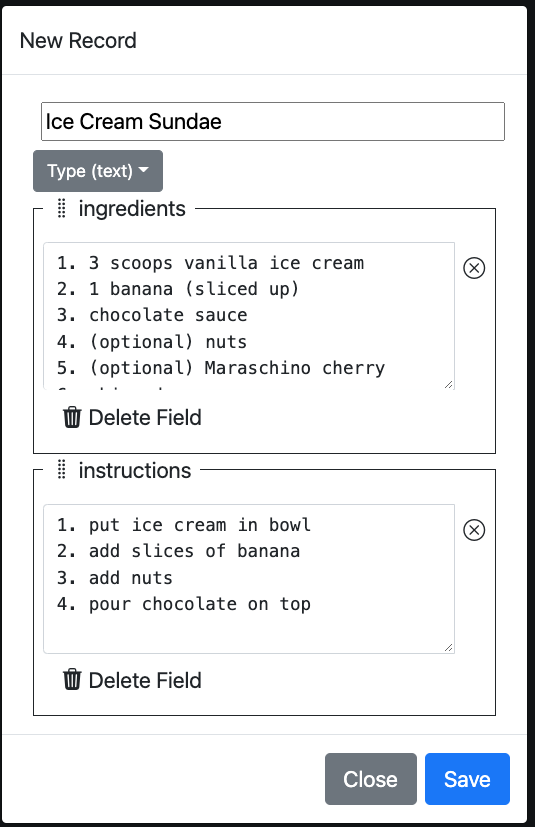
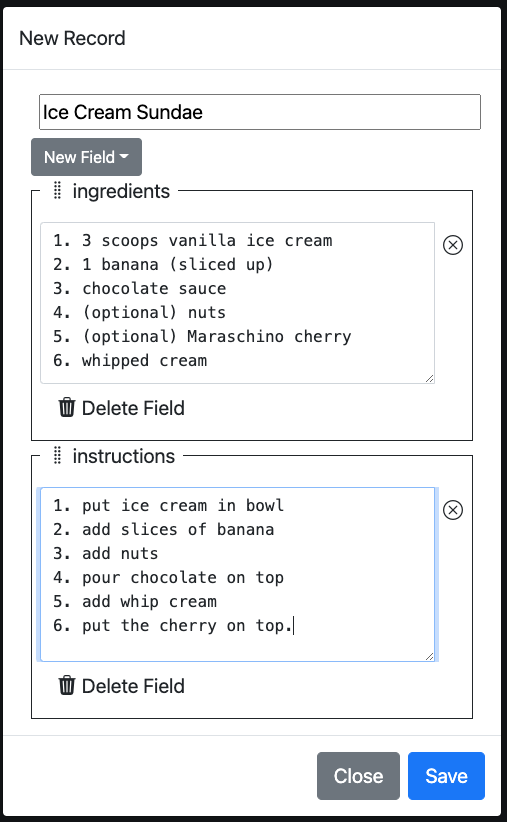
updated for v1.0.0-rc07

diff --git a/pam/www/help/index.html b/pam/www/help/index.html
@@ -134,11 +134,11 @@ the on-line help is generated.</p>
 </tr>
 <tr class="even">
 <td>Build</td>
-<td><code>2022-08-17 23:57:35 -0700</code></td>
+<td><code>2022-08-18 09:38:58 -0700</code></td>
 </tr>
 <tr class="odd">
 <td>GitCommitId</td>
-<td><code>ab9dea3</code></td>
+<td><code>333b0dc</code></td>
 </tr>
 <tr class="even">
 <td>GitBranch</td>
@@ -463,8 +463,8 @@ instructions
 <p>It would look like this when you <em>create</em> it in
 <em>PAM</em>.</p>
 <p><img src="./pam-ice-cream-sundae-new.png" width="400" alt="ice-cream-sundae-example"></p>
-<p>It would look like this when you <em>view</em> it in
-<em>PAM</em>.</p>
+<p>It would look like this when you <em>view</em> it in <em>PAM</em> in
+edit mode.</p>
 <p><img src="./pam-ice-cream-sundae-open.png" width="400" alt="ice-cream-sundae-example"></p>
 <p>As you can see, in this <em><q>recipe</q></em> record, the title is
 <code>"Ice Cream Sundae"</code> and the two fields <q>ingredients</q>
@@ -668,11 +668,8 @@ Hiding Passwords from Casual Observers</h4>
 cannot read them unless you choose to make them visible. You can read
 more about why this is beneficial in the <a
 href="#security-considerations">Security Considerations</a> section.</p>
-<p>This is the default hidden view of a password with the <a
-href="#enable-editable-field-name">Enable Editable Field Name</a>
-preference set which shows the name of the field. In this case
-<q>password</q>. You can see that the password value is all
-<em>asterisks</em>.</p>
+<p>This is the default hidden view of a password. You can see that the
+password value is all <em>asterisks</em>.</p>
 <p><img src="./pam-password-hidden.png" width="400" alt="password-hidden"></p>
 <p>This is the same view of a password when it is not hidden. You can
 now see the password value.</p>
@@ -1130,13 +1127,12 @@ the new fields.</p>
 <p><img src="./pam-new-record.png" width="400" alt="new-record"></p>
 <p>You can now type in the record title.</p>
 <p><img src="./pam-new-record-title.png" width="400" alt="new-record"></p>
-<p>From there you click or tap on the <code>"Type"</code> pulldown to
-select and create the first record field. Don’t worry if you select the
-wrong one, they are easy to delete.</p>
+<p>From there you click or tap on the <code>"New Field"</code> pulldown
+to select and create the first record field. Don’t worry if you select
+the wrong one, they are easy to delete.</p>
 <p>Here is where you select <q>ingredients</q> for the first field.</p>
 <p><img src="pam-new-record-field-1-select.png" width="400" alt="new-record-field-1-select"></p>
-<p>And then change the field name to <q>ingredients</q> and populate
-it.</p>
+<p>Populate it by typing into the <em><q>textarea</q></em> box.</p>
 <p><img src="pam-new-record-field-1.png" width="400" alt="new-record-field-1"></p>
 <p>Now do the same thing to create an <q>instructions</q> field.</p>
 <p><img src="pam-new-record-field-2.png" width="400" alt="new-record-field-2"></p>

diff --git a/pam/www/js/record.js b/pam/www/js/record.js
@@ -247,8 +247,8 @@ export function cleanRecordEditDlg(event) {
         }
     })
 
-    // reset dropdown state when creating a new record.
-    button.innerHTML = `Type (${window.prefs.predefinedRecordFieldsDefault})` // this is the default
+    // reset dropdown state when creating a new record field.
+    button.innerHTML = 'New Field'
     let container = button.xGetParentWithClass('container')
 
     // clear the title

diff --git a/pam/www/js/version.js b/pam/www/js/version.js
@@ -2,5 +2,5 @@
 // This file is automatically generated by make.
 export const VERSION = '1.0.0-rc07'
 export const BOOTSTRAP_VERSION = '5.1.3'
-export const COMMIT_ID = 'ab9dea3'
-export const COMMIT_DATE = '2022-08-17 23:57:35 -0700'
+export const COMMIT_ID = '333b0dc'
+export const COMMIT_DATE = '2022-08-18 09:38:58 -0700'
